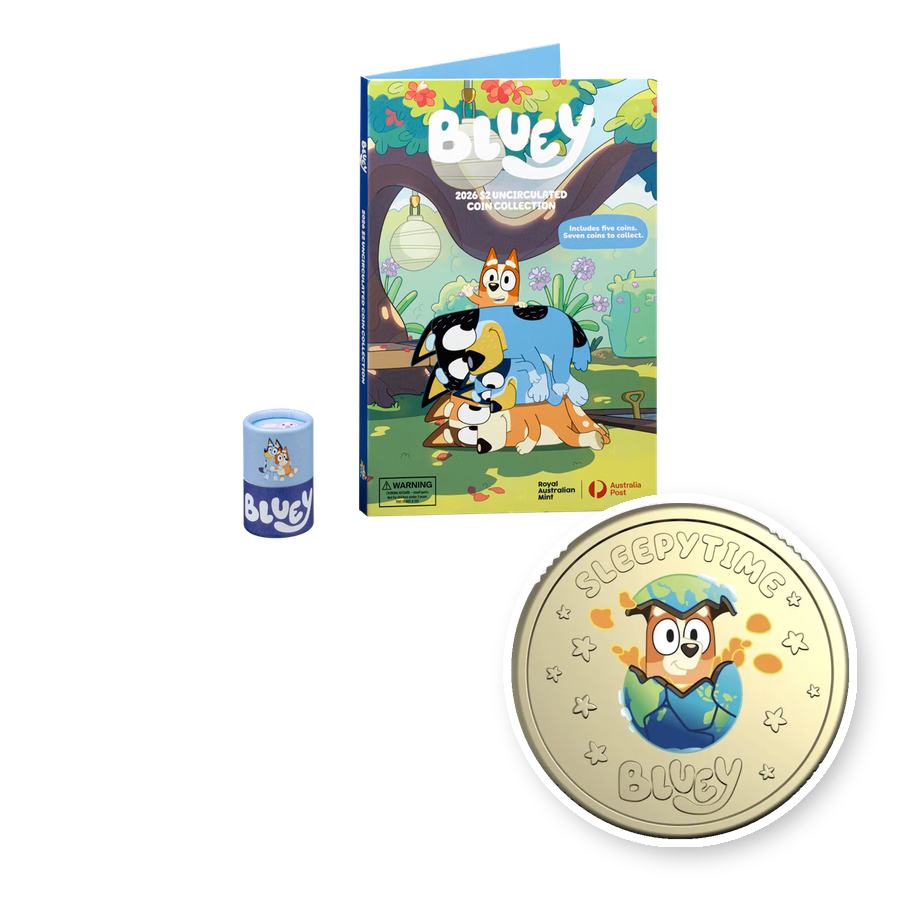
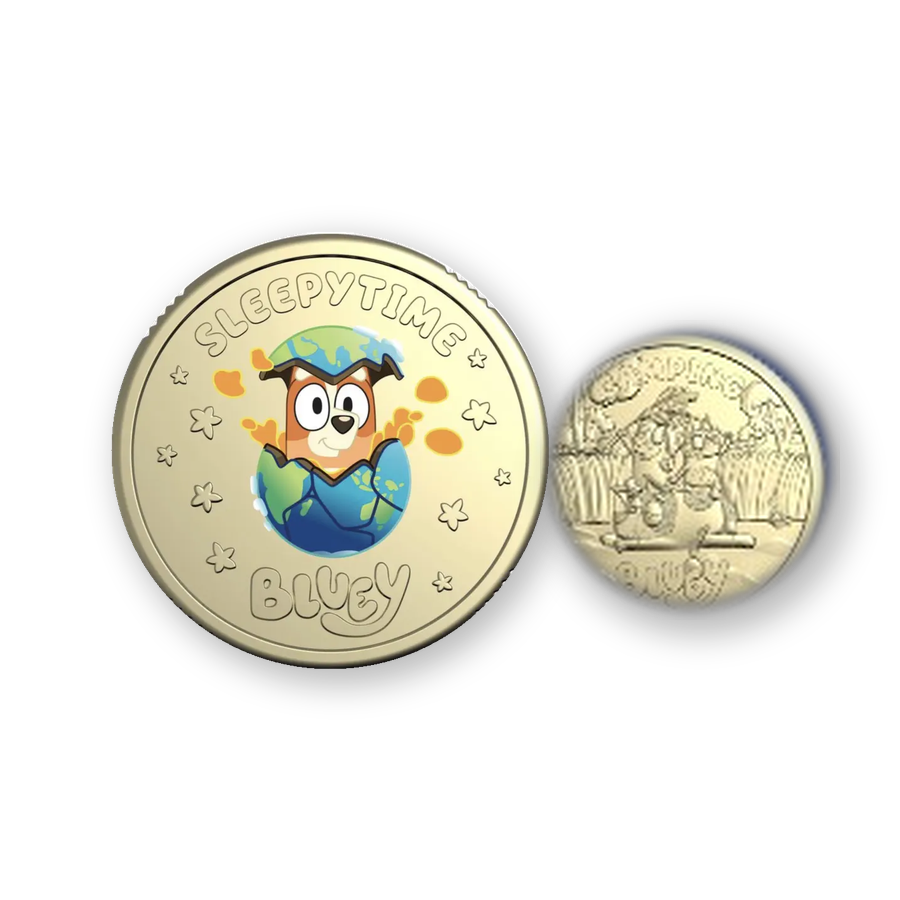
Tube state cards show coins only, no tube

diff --git a/index.html b/index.html
@@ -3883,8 +3883,8 @@ const COIN_PRODUCT_IMAGES = {
   s1_proof_silver: { src: 'coin-images/2024-proof-silver.png', alt: 'Official Royal Australian Mint 2024 Bluey Dollarbucks $1 fine silver coloured proof coin in its presentation display case', source: 'https://ramint.runfair.com/en-GB/au/2024-1-dollar-fine-silver-coloured-proof-coin-bluey-dollarbucks' },
   s1_proof_coloured: { src: 'coin-images/2024-proof-coloured.png', alt: 'Official Royal Australian Mint 2024 Bluey Dollarbucks $1 coloured proof coin in its presentation display case', source: 'https://ramint.runfair.com/en-US/au/2024-1-dollar-coloured-proof-coin-bluey-dollarbucks' },
   s1_10_coin_folder_set: { src: 'coin-images/2024-folder-set.jpg', alt: 'Official Australia Post 2024 Bluey ten-coin folder and tube set', source: 'https://collectables.auspost.com.au/content/dam/collectables/stamp-bulletin/2024/stamp-bulletin-391/stamp-bulletin-391.pdf' },
-  s1_10_coin_folder_opened: { src: 'coin-images/2024-folder-set-opened.jpg', alt: '2024 Bluey ten-coin folder and tube set with the tube opened and coins loose', source: 'Derived composite of official Royal Australian Mint till-coin photography and Australia Post Stamp Bulletin 391 set imagery' },
-  s1_coloured_insert_variant: { src: 'coin-images/2024-coloured-insert-variant.jpg', alt: '2024 Bluey ten-coin folder and tube set opened showing the 1-in-10 special coloured $1 Dollarbuck coin', source: 'Derived composite of official Royal Australian Mint coloured-coin photography and Australia Post Stamp Bulletin 391 set imagery' },
+  s1_10_coin_folder_opened: { src: 'coin-images/2024-folder-set-opened.jpg', alt: 'Bluey and Bingo 2024 $1 uncirculated coins, the standard coins from an opened ten-coin tube', source: 'Derived composite of official Royal Australian Mint coin photography' },
+  s1_coloured_insert_variant: { src: 'coin-images/2024-coloured-insert-variant.jpg', alt: '2024 special coloured $1 Dollarbuck coin beside a standard Bluey uncirculated coin', source: 'Derived composite of official Royal Australian Mint coloured-coin photography' },
   s1_coloured_bluey: { src: 'coin-images/2024-unc-bluey-card.jpg', alt: 'Royal Australian Mint 2024 Bluey $1 coloured uncirculated coin in its Dollarbucks presentation card, front and back, mintage 30,000', source: 'https://ramint.runfair.com/en-US/au/bluey-dollarbucks-1-dollar-uncirculated-coin-2024' },
   s1_coloured_heelers: { src: 'coin-images/2024-unc-heelers-card.jpg', alt: 'Royal Australian Mint 2024 The Heelers $1 coloured uncirculated coin in its Dollarbucks presentation card, front and back, mintage 30,000', source: 'https://ramint.runfair.com/en-US/au/heelers-bluey-dollarbucks-1-dollar-uncirculated-coin-2024' },
   s1_coloured_grannies: { src: 'coin-images/2024-unc-grannies-card.jpg', alt: 'Royal Australian Mint 2024 The Grannies $1 coloured uncirculated coin in its Dollarbucks presentation card, front and back, mintage 30,000', source: 'https://ramint.runfair.com/en-US/au/grannies-bluey-dollarbucks-1-dollar-uncirculated-coin-2024' },
@@ -3914,8 +3914,8 @@ const COIN_PRODUCT_IMAGES = {
   s2_xmas_silv: { src: 'coin-images/2025-proof.png', alt: '2025 Bluey Christmas $1 silver proof coin in its bauble packaging', source: 'https://www.ramint.gov.au/about-us/whats-new/get-christmas-spirit-bluey' },
   s2_xmas_stamp_pack: { src: 'coin-images/2024-xmas-stamp-pack.jpg', alt: 'Official Australia Post 2024 Bluey Christmas stamp pack folder and 20-stamp sheetlet', source: 'https://collectables.auspost.com.au/content/dam/collectables/stamp-bulletin/2024/stamp-bulletin-393/stamp-bulletin-393.pdf' },
   s3_folder: { src: 'coin-images/2026-folder-and-tube.png', alt: 'Bluey 2026 $2 Uncirculated Coin Collection folder standing beside its coin tube; includes five coins, seven coins to collect', source: 'https://ramint.runfair.com/en-US/au' },
-  s3_folder_opened: { src: 'coin-images/2026-folder-set-opened.png', alt: '2026 Bluey $2 five-coin folder and tube set with Camping and Baby Race uncirculated coins shown loose', source: 'Derived composite of official Royal Australian Mint blog and folder imagery' },
-  s3_folder_chase: { src: 'coin-images/2026-folder-set-chase.png', alt: '2026 Bluey $2 five-coin folder and tube set with the special-coloured Sleepytime chase coin', source: 'Derived composite of official Royal Australian Mint blog, folder and coin imagery' },
+  s3_folder_opened: { src: 'coin-images/2026-folder-set-opened.png', alt: 'Camping and Baby Race 2026 $2 uncirculated coins, the standard coins from an opened five-coin tube', source: 'Derived composite of official Royal Australian Mint blog and folder imagery' },
+  s3_folder_chase: { src: 'coin-images/2026-folder-set-chase.png', alt: 'Special-coloured Sleepytime 2026 $2 chase coin beside a standard Camping uncirculated coin', source: 'Derived composite of official Royal Australian Mint blog, folder and coin imagery' },
   s3_maxicard_pack: { src: 'coin-images/2026-maxicard-pack.jpg', alt: 'The five Bluey Series 3 maxicards of 6 May 2026 (Rain, Baby Race, Camping, Sleepytime and Granny Mobile), each with a star-shaped $1.70 stamp and Brisbane postmark', source: 'Owner photos supplied by James Love, 2026-10-07; composite of five cards' },
   s3_stamp_pack: { src: 'coin-images/2026-stamp-pack.jpg', alt: 'Official Australia Post 2026 Bluey star-shaped MyStamps pack folder and 12-stamp sheetlet', source: 'https://collectables.auspost.com.au/content/dam/collectables/stamp-bulletin/2026/stamp-bulletin-401/stamp-bulletin-401.pdf' },
   s3_sleepytime_insert: { src: 'coin-images/2026-sleepytime-coin-official.png', alt: '2026 special-coloured Sleepytime $2 coin, cropped from the official Royal Australian Mint image', source: 'https://www.ramint.gov.au/sites/default/files/styles/full_width/public/2026-05/blog-2026-05-03-bluey-2-folder.jpg?itok=cPKmvMjN' },
